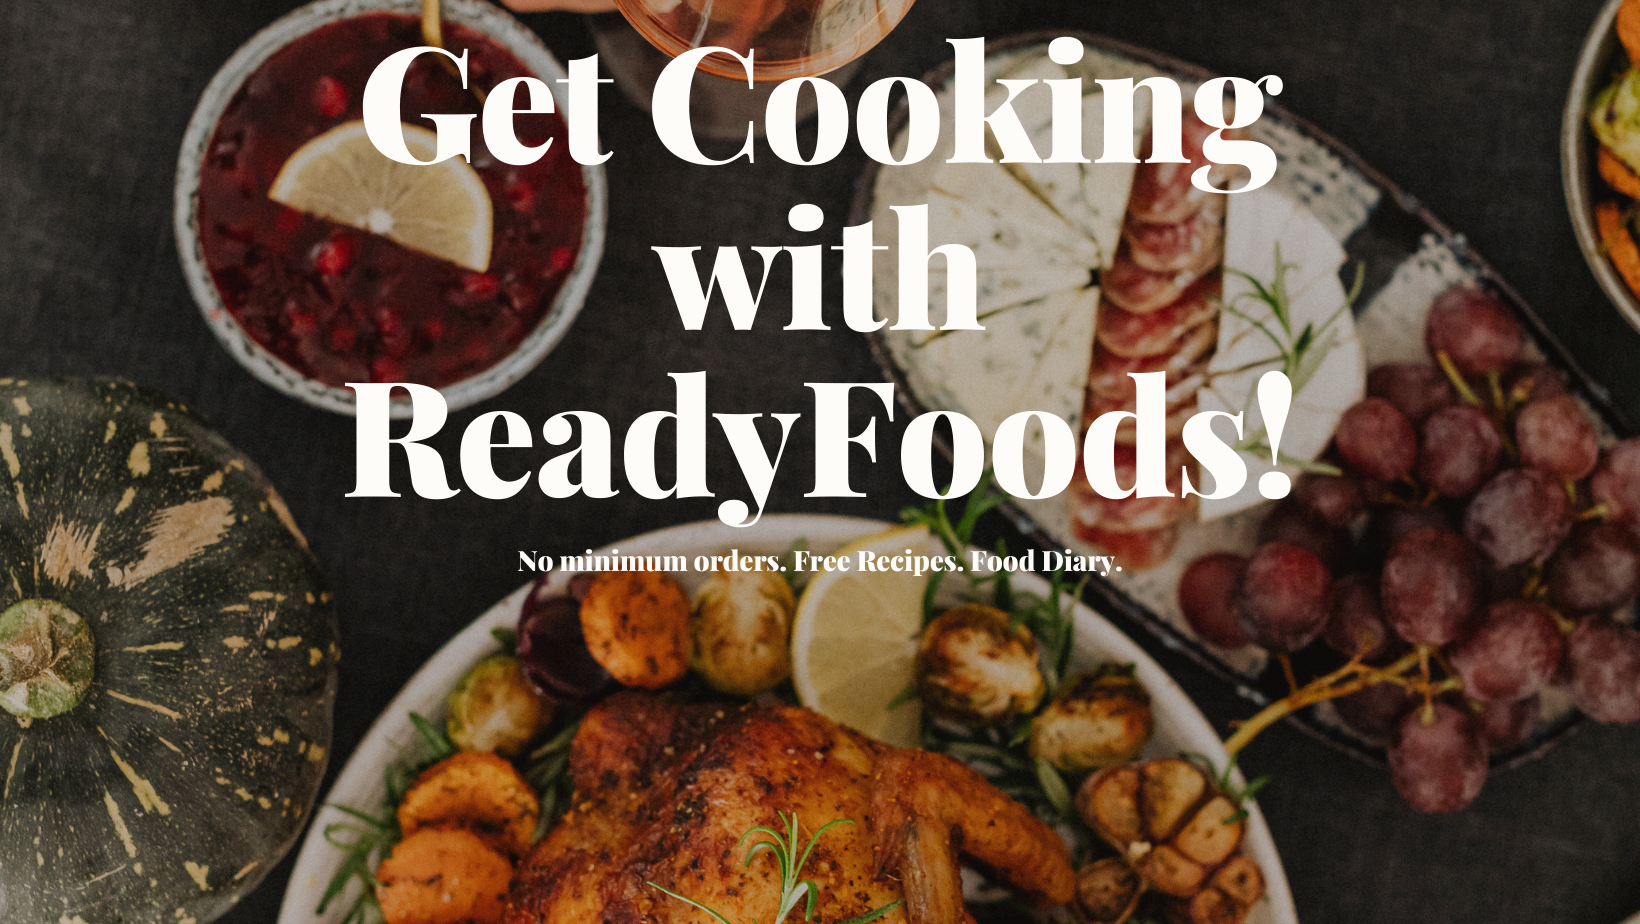
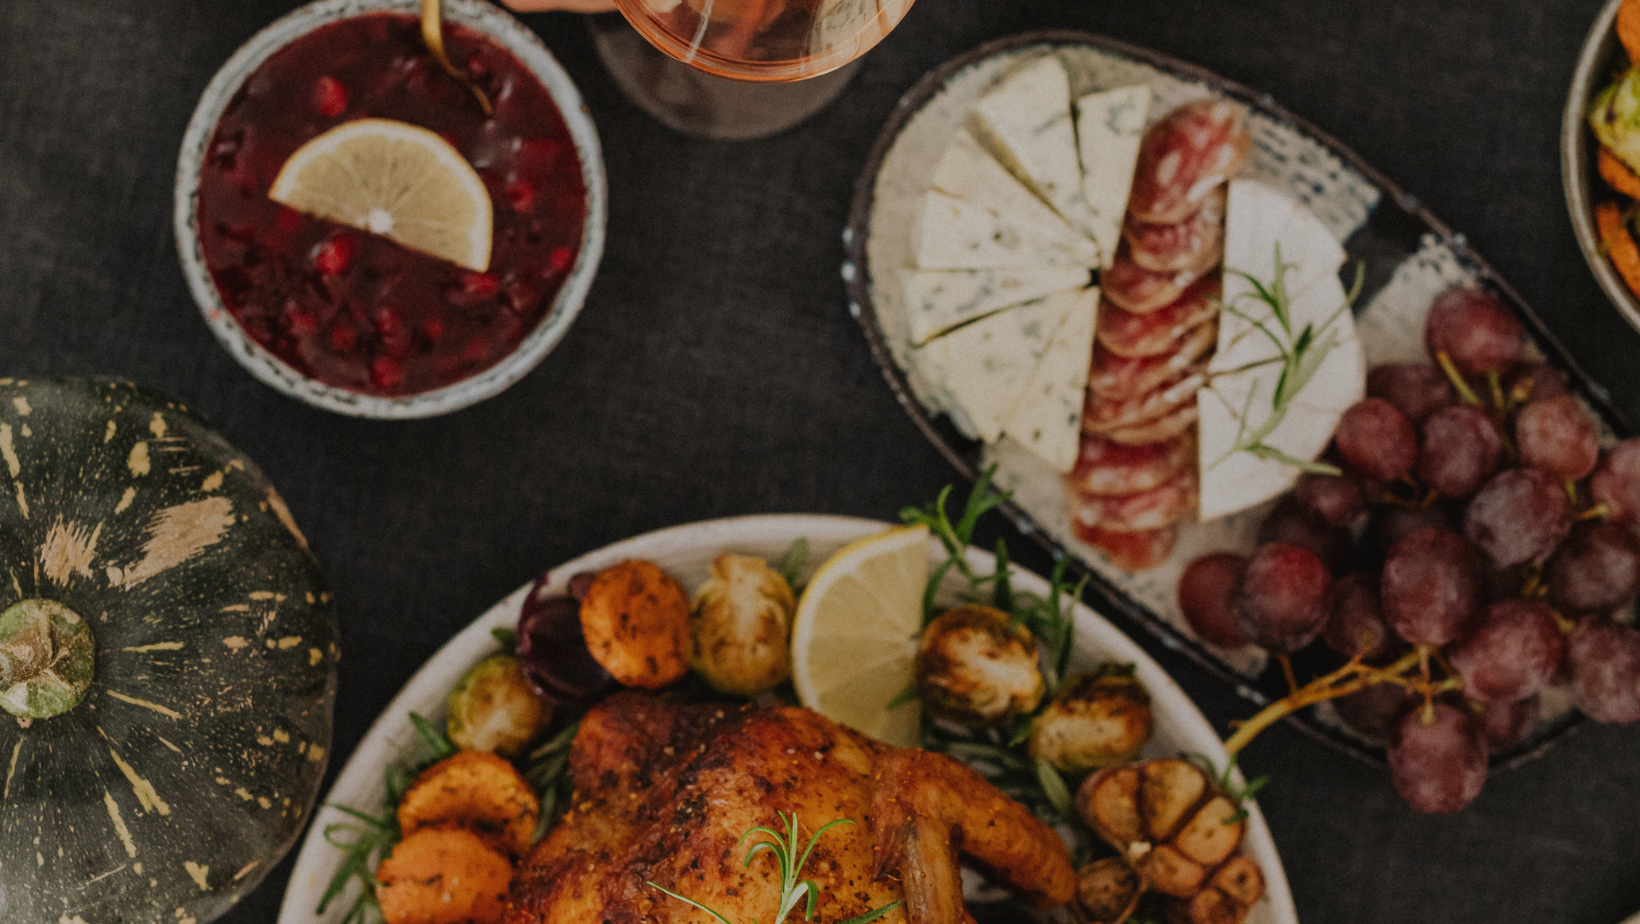
Enhanced homepage styling

diff --git a/ReadyFoods-war/web/resources/css/default.css b/ReadyFoods-war/web/resources/css/default.css
@@ -144,3 +144,39 @@ a:link:hover, a:visited:hover {
     margin-right: auto;
 }
 
+.home-bg {
+    background: url("#{resource['images/home.png']}");
+    background-size: cover;
+    height: 100%;
+    width: 100%;
+}
+
+.home-header {
+    font-family: PlayfairDisplay, "Playfair Display Black";
+    font-size: 170;
+    text-align: center;
+    font-weight: 700;
+    color: white;
+    padding-top: 40px;
+    padding-left: 40px;
+    padding-right: 40px;
+}
+.home-text {
+    font-family: PlayfairDisplay, "Playfair Display Black" !important;
+    font-size: 30 !important;
+    text-align: center !important;
+    font-weight: 700 !important;
+    color: white !important;
+    margin: 10 !important;
+}
+
+.home-button {
+    font-family: PlayfairDisplay, "Playfair Display Black" !important;
+    font-size: 20 !important;
+    text-align: center !important;
+    font-weight: 700 !important;
+    margin-top: 20 !important;
+    margin-bottom: 30 !important;
+    margin-left: auto !important;
+    margin-right: auto !important;
+}

diff --git a/ReadyFoods-war/web/resources/css/register.css b/ReadyFoods-war/web/resources/css/register.css
@@ -11,6 +11,8 @@ and open the template in the editor.
 .register{
     width: 60%;
     background-color: #FFFFFF !important;
+    font-size: 15;
+    font-weight: 700;
 }
 
 .registerBg {

diff --git a/ReadyFoods-war/src/java/jsf/managedbean/LoginManagedBeanRF.java b/ReadyFoods-war/src/java/jsf/managedbean/LoginManagedBeanRF.java
@@ -46,6 +46,11 @@ public class LoginManagedBeanRF implements Serializable {
             FacesContext.getCurrentInstance().addMessage(null, new FacesMessage(FacesMessage.SEVERITY_ERROR, "Invalid login credential: " + ex.getMessage(), null));
         }
     }
+    
+    public void toRegisterPage(ActionEvent event) throws IOException
+    {
+         FacesContext.getCurrentInstance().getExternalContext().redirect(FacesContext.getCurrentInstance().getExternalContext().getApplicationContextPath() + "/registerCustomer.xhtml");
+    }
      
     public void logout(ActionEvent event) throws IOException
     {
